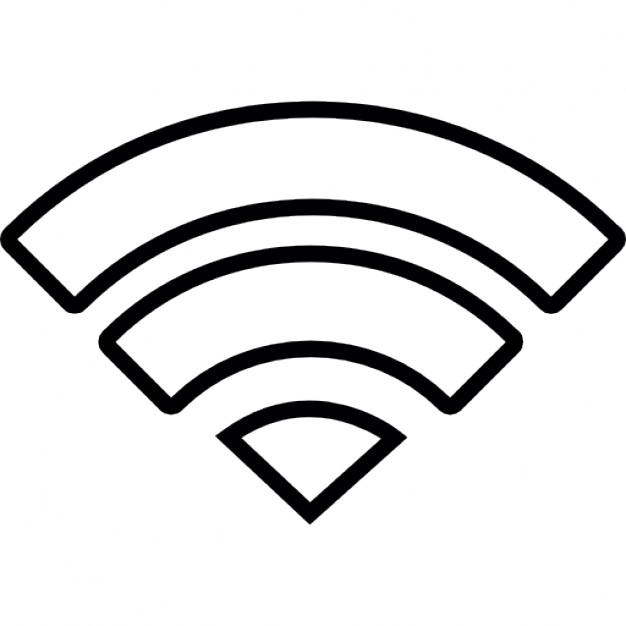
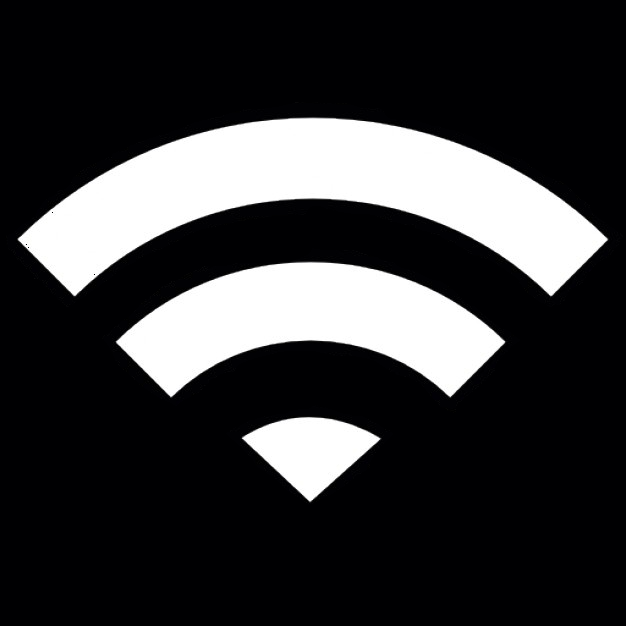
Add function and array method to begin getting the calc to display
update the wifi image

diff --git a/index.html b/index.html
@@ -17,28 +17,28 @@
             <i class='fa fa-battery' style='color: white; position: absolute; top: -66px; right: -55px;'></i>
             <div id="time"></div>
             <div id="calculator">   
-                <div id="display">0</div>
+                <div id="display"></div>
                 <div id="buttonContainer">
-                    <button class="clearAll">AC</button>
-                    <button class="delete">C</button>
-                    <button class="positiveNegative">+/-</button>
-                    <button class="operator">÷</button>
-                    <button class="operand">7</button>
-                    <button class="operand">8</button>
-                    <button class="operand">9</button>
-                    <button class="operator">×</button>
-                    <button class="operand">4</button>
-                    <button class="operand">5</button>
-                    <button class="operand">6</button>
-                    <button class="operator">-</button>
-                    <button class="operand">1</button>
-                    <button class="operand">2</button>
-                    <button class="operand">3</button>
-                    <button class="operator">+</button>
-                    <button class="operand">0</button>
-                    <button class="decimal">.</button>
-                    <button class="percent">%</button>
-                    <button class="operator">=</button>
+                    <button value="AC" class="clearAll">AC</button>
+                    <button value="C" class="delete">C</button>
+                    <button value="positiveNegative" class="positiveNegative">+/-</button>
+                    <button value="divide" class="operator">÷</button>
+                    <button value="7" class="operand">7</button>
+                    <button value="8" class="operand">8</button>
+                    <button value="9" class="operand">9</button>
+                    <button value="multiply" class="operator">×</button>
+                    <button value="4" class="operand">4</button>
+                    <button value="5" class="operand">5</button>
+                    <button value="6" class="operand">6</button>
+                    <button value="subtract" class="operator">–</button>
+                    <button value="1" class="operand">1</button>
+                    <button value="2" class="operand">2</button>
+                    <button value="3" class="operand">3</button>
+                    <button value="add" class="operator">+</button>
+                    <button value="0" class="zero">0</button>
+                    <button value="." class="decimal">.</button>
+                    <button value="percent" class="percent">%</button>
+                    <button value="equals" class="operator">=</button>
                 </div>
             </div>
         </div>  

diff --git a/calc-proj.js b/calc-proj.js
@@ -1,7 +1,4 @@
 
-
-
-
 // Time function
 function time() {
     const today = new Date();
@@ -12,3 +9,50 @@ function time() {
     const time = hours + ':' + mins;
     document.getElementById('time').innerHTML = time;
 }
+
+let displayValue = 0;
+const display = document.getElementById('display');
+const buttons = Array.from(document.querySelectorAll('button'));
+
+
+buttons.map(button => {
+    button.addEventListener('click', (e) => {
+        switch (e.target.value) {
+            case 'AC':
+                display.innerHTML = 0;
+                break;
+            case 
+
+
+
+            default:
+                display.innerHTML += e.target.value;
+        }
+    });
+}); 
+
+updateDisplay = () => {
+    
+    if(displayValue.length > 9) {
+        display.innerHTML = displayValue.substring(0,9);
+    }
+    if(displayValue != 0) {
+        display.innerHTML = displayValue;
+
+        
+    } else {
+        display.innerHTML = displayValue;
+    }
+};
+
+updateDisplay();
+
+clear = () => {
+
+};
+
+
+
+
+
+

diff --git a/style.css b/style.css
@@ -63,7 +63,7 @@ img {
     position: absolute;
     top: -66px;
     right: -30px;
-    filter: invert(1);
+    
 }
 
 #display {
@@ -84,6 +84,7 @@ button {
     margin: -5px;
     border-radius: 50%;
     border-style: none;
+    font-family: Helvetica, sans-serif;
 }
 
 .clearAll, 
@@ -94,11 +95,21 @@ button {
     font-size: 25px;
 }
 
+.clearAll:hover,
+.delete:hover,
+.positiveNegative:hover {
+    background-color: #fbfbfb;
+}
+
 .operator {
     background-color: #FF9500;
     color: white;
-    font-size: 40px;
-    font-family: serif;
+    font-size: 30px;
+    
+}
+
+.operator:hover {
+    background-color: #ffbf65;
 }
 
 .operand,
@@ -107,4 +118,10 @@ button {
     background-color: #505050;
     color: white;
     font-size: 25px;
+}
+
+.operand:hover,
+.decimal:hover,
+.percent:hover {
+    background-color: #737373;
 }
